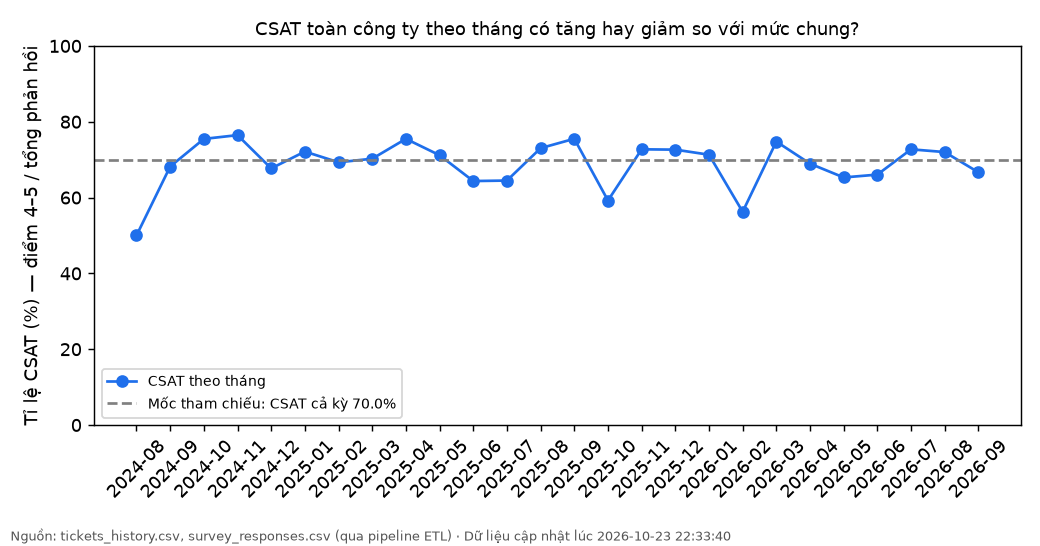
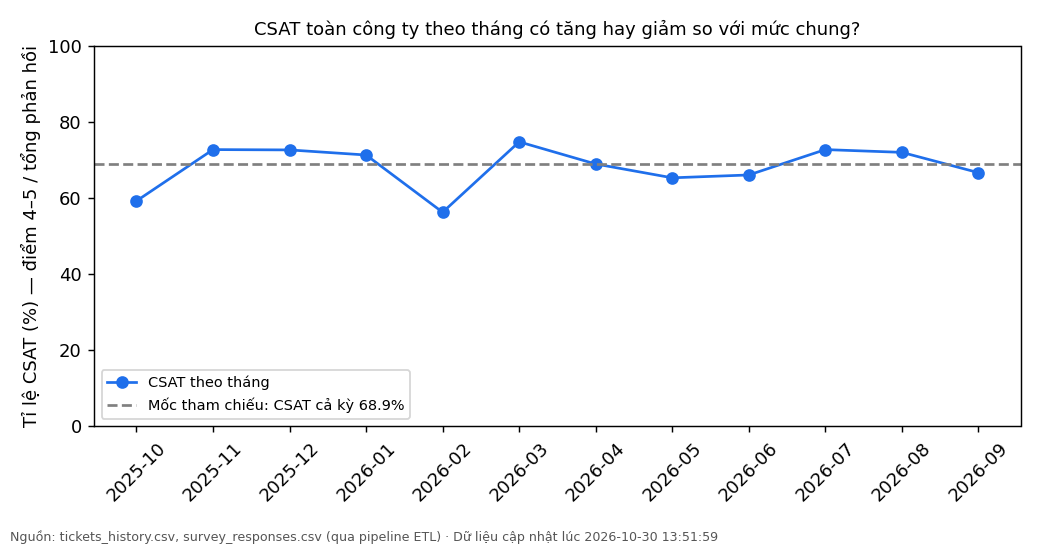
Hoan thien BT2

diff --git a/docs/ai-disclosure.md b/docs/ai-disclosure.md
@@ -1,36 +1,24 @@
-# Phụ lục – Bảng khai báo sử dụng công cụ AI (BT2)
+# Phụ lục – Bảng khai báo sử dụng công cụ AI
 
-**Học phần:** Chuyên đề tốt nghiệp 1 – Bài tập 2: Hiện thực hoá Module Cốt lõi
+**Học phần:** Chuyên đề tốt nghiệp 1 – Bài tập 1: Phân tích và Thiết kế
 **Luồng nghiệp vụ:** L8 – Khảo sát hài lòng khách hàng sau bảo hành (CSAT) · **Track:** DA
 **Sinh viên:** MOONLASING Moulita · **MSSV:** 237480201IS02
-**Repo / tag:** https://github.com/Moulitamls/smartcrm-237480201IS02-khao-sat-hai-long · `v0.2`
 
-## 1. Bảng khai báo (BT2)
-
-| Công cụ | Dùng vào việc gì | Áp dụng ở tệp / hàm nào | Em đã kiểm chứng thế nào |
-|---|---|---|---|
-| Claude (Anthropic) | Rà soát repo đối chiếu đề BT2 và bảng tiêu chí C1–C7, D1–D4; chỉ liệt kê điểm thiếu, không sửa mã ở bước này | Toàn repo (không sinh mã ở bước này) | Em tự kiểm tra từng điểm Claude nêu: `git tag -l` rỗng; `src/config.demo.yaml` và `docs/data-dictionary.md` không có trong repo; `docs/ai-disclosure.md` còn là bản BT1; chạy `python -m pytest -q src` và chạy pipeline hai lần để xác nhận số dòng không nhân đôi |
-| Claude (Anthropic) | Soạn 8 hàm kiểm chất lượng CL1–CL8, mỗi hàm trả số dòng lỗi, tổng dòng, tỉ lệ lỗi và kết quả so với ngưỡng; soạn hàm `run_all` gọi cả 8 hàm | `src/quality/metrics.py`: `cl1_ticket_id_hop_le` … `cl8_moi_phieu_mot_phan_hoi`, `run_all` | Em đã đọc từng hàm và giải thích được từng điều kiện; tự tính tay một ca (4 phiếu, 1 mã trùng → CL1 = 1/4 = 25%) rồi so với kết quả chạy; chạy pipeline trên dữ liệu thật được CL1–CL8 đều 0 lỗi; chạy với `config.demo.yaml` được số lỗi khớp số dòng chèn lỗi trong `make_sample_data.py` |
-| Claude (Anthropic) | Soạn 5 test cho các hàm CL: dữ liệu sạch (0 lỗi), biên điểm 1/5 hợp lệ và 0/6 lỗi (CL4 = 2/4), biên nhận xét 500/501 ký tự, dữ liệu sai nhiều loại, bảng rỗng không chia cho 0 | `src/test_metrics.py` | Em chạy `python -m pytest -q src`, kết quả `23 passed` (18 test cũ + 5 test mới); em sửa lại một kỳ vọng sai ở `test_du_lieu_sai_nhieu_loai_moi_phep_dem_dung` (CL3 đếm cả phiếu thiếu `closed_at` lẫn phiếu có `closed_at` không đọc được, nên đúng là 2 chứ không phải 1) |
-| Claude (Anthropic) | Nối CL1–CL8 vào luồng chạy và báo cáo; thêm ngưỡng `max_error_rate` vào cấu hình | `src/pipeline.py` (import `metrics`, gọi `qm.run_all`, in 8 dòng `[quality]`); `src/report.py` (mục 3 của báo cáo chất lượng); `src/config.yaml` (`rules.max_error_rate`) | Em chạy pipeline hai lần: `fact_survey` giữ 6350 dòng, `[reconcile]` vẫn `ĐẠT`; mở `reports/chatluong-<ngày>.md` thấy bảng CL1–CL8 có cột tỉ lệ lỗi; `check_tickets` / `check_surveys` và bảng `reject_rows` không bị sửa |
-| Claude (Anthropic) | Soạn tệp cấu hình cho dữ liệu mẫu có lỗi chủ ý và từ điển cột | `src/config.demo.yaml`; `docs/data-dictionary.md` | Chạy `python -m src.make_sample_data` rồi `python -m src.pipeline --config src/config.demo.yaml`: `reject_rows` có 8 loại lý do, chạy lần hai `fact_survey` vẫn 6343 dòng; đối chiếu từng cột của từ điển với `src/star_schema.sql` và `src/load/sqlite_loader.py` |
-| Claude (Anthropic) | Cập nhật tài liệu theo thay đổi ở trên; thêm gói con Python | `README.md` (số test, bảng cấu trúc, kết quả đúng); `docs/thay-doi-thiet-ke.md` (TD-22); `.gitignore` (`reports/`); `src/__init__.py` và `__init__.py` của 4 gói con | Em đọc lại từng dòng đã sửa; làm đúng README trong thư mục trống (`git clone --branch v0.2`) và không phải gõ thêm lệnh nào |
-| Claude (Anthropic) | Tra mã commit sửa từng lỗi để điền vào bug log (dùng `git log -S`) | `docs/bug-log.md`, dòng "Commit" của BUG-01 đến BUG-06 | Em chạy `git show <mã>` cho từng commit để xác nhận commit đó thật sự chứa thay đổi sửa lỗi tương ứng |
-
-## 2. Các phần em tự làm hoàn toàn
-
-*[SV xác nhận trước khi nộp: các phần không nằm trong bảng ở mục 1 do em tự làm, gồm `src/extract/`, `src/transform/`, `src/quality/rules.py`, `src/quality/rejects.py`, `src/load/`, `src/queries.py`, `src/charts.py`, `src/app.py`, `src/export_charts.py`, 18 test đã có trước đó, sơ đồ và ảnh minh chứng. Nếu có phần nào em từng dùng AI hỗ trợ (kể cả gợi ý hàm, giải thích lỗi, soát văn phong), phải thêm vào bảng ở mục 1; nếu không dùng thì giữ nguyên câu này và xoá ngoặc vuông.]*
-
-## 3. Bảng khai báo của BT1 (giữ lại để truy vết)
+## 1. Bảng khai báo
 
 | Công cụ | Dùng vào việc gì | Áp dụng ở phần nào | Đã kiểm chứng thế nào |
 |---|---|---|---|
-| Claude (Anthropic) | Rà soát bản DOCX BT1 so với đề bài, liệt kê điểm còn thiếu so với 11 mục kiểm chứng | Báo cáo BT1 (DOCX) | Đối chiếu từng điểm Claude nêu với file đề bài PDF, tự sửa nội dung trong tài liệu, chạy lại Ctrl+F kiểm tra thuật ngữ |
+| Claude (Anthropic) | Rà soát bản DOCX đã làm so với đề bài: liệt kê điểm còn thiếu hoặc sai so với 11 mục kiểm chứng; đối chiếu từng điểm Claude nêu với file đề bài PDF và tự sửa nội dung trong tài liệu; chạy lại Ctrl+F kiểm tra thuật ngữ |
 
-## 4. Cam kết
 
-**Tôi xác nhận đã đọc, hiểu và chịu trách nhiệm về toàn bộ nội dung này.**
+## 2. Các phần em tự làm hoàn toàn
+
+*Mục 1 phân tích yêu cầu nghiệp vụ và User Story; Use Case Diagram và đặc tả UC2; sơ đồ kiến trúc và 3 câu lập luận; sơ đồ data flow và lược đồ kho dữ liệu; wireframe trên Figma; đo số liệu trên dữ liệu mẫu.*
+
+## 3. Cam kết
+
+Tôi xác nhận đã đọc, hiểu và chịu trách nhiệm về toàn bộ nội dung nộp.
 
 - Họ tên: **MOONLASING Moulita**
 - MSSV: **237480201IS02**
-- Ngày: *[30/10/2026]*
+- Ngày: *09/10/2026**

diff --git a/docs/bug-log.md b/docs/bug-log.md
@@ -10,7 +10,7 @@ Mỗi lỗi theo bốn bước gỡ lỗi: tái lập → khoanh vùng → sửa
 - Nguyên nhân gốc: mã viết cho cấu trúc cũ có thư mục `tests/`; cấu trúc phẳng (TD-16) không còn thư mục đó.
 - Cách sửa: đổi thành `from src.conftest import T, S, run_pipeline`.
 - Xác nhận: `python -m pytest -q src` hiện `17 passed`.
-- Commit: `<d419337, 540311a, 595f65c, 578fce8>`
+- Commit: `<điền mã commit>`
 
 ## BUG-02 — Dashboard không tìm thấy config sau khi gom file vào src/
 
@@ -20,7 +20,7 @@ Mỗi lỗi theo bốn bước gỡ lỗi: tái lập → khoanh vùng → sửa
 - Nguyên nhân gốc: mã viết cho `src/dashboard/app.py` (sâu hơn một cấp).
 - Cách sửa: dùng `Path(__file__).resolve().parents[1]` cho cả `sys.path` và đường dẫn config.
 - Xác nhận: dashboard mở ở `localhost:8501` và hiện số liệu.
-- Commit: `<ea91f02>`
+- Commit: `<điền mã commit>`
 
 ## BUG-03 — Phản hồi cùng ngày đóng phiếu bị loại oan
 
@@ -30,7 +30,7 @@ Mỗi lỗi theo bốn bước gỡ lỗi: tái lập → khoanh vùng → sửa
 - Nguyên nhân gốc: quy tắc so sánh theo thời điểm đầy đủ.
 - Cách sửa: so sánh theo NGÀY bằng `dt.normalize()` trong `check_surveys` (TD-12).
 - Xác nhận: test "trả lời cùng ngày đóng hợp lệ" trong `test_quality.py` PASS.
-- Commit: `<1f6802f>`
+- Commit: `<điền mã commit>`
 
 ## BUG-04 — Số dòng fact ít hơn staging vì JOIN loại phiếu thiếu khoá
 
@@ -40,7 +40,7 @@ Mỗi lỗi theo bốn bước gỡ lỗi: tái lập → khoanh vùng → sửa
 - Nguyên nhân gốc: dimension không có dòng cho giá trị thiếu.
 - Cách sửa: thêm dòng "Không xác định" (key = −1) vào dimension và ánh xạ khoá thiếu về −1 (TD-11).
 - Xác nhận: công thức đối chiếu `stg_ticket = fact + loại + chưa đóng` in `ĐẠT`; test thiếu trung tâm hoặc kỹ thuật viên trong `test_loader.py` PASS.
-- Commit: `<c02ea47>`
+- Commit: `<điền mã commit>`
 
 ## BUG-05 — README trỏ sai đường dẫn và link repo
 
@@ -50,7 +50,7 @@ Mỗi lỗi theo bốn bước gỡ lỗi: tái lập → khoanh vùng → sửa
 - Nguyên nhân gốc: README viết trước khi gom file theo yêu cầu giảng viên (TD-16) và không được chạy lại trên bản clone mới.
 - Cách sửa: viết lại README theo cấu trúc phẳng, sửa link, thêm bước clone theo tag `v0.2` (TD-21).
 - Xác nhận: clone `--branch v0.2` vào thư mục mới, chạy đủ các bước README, pipeline `ĐẠT` và `18 passed`.
-- Commit: `<25e4a12>`
+- Commit: `<điền mã commit>`
 
 ## BUG-06 — Tạo lỗi trạng thái "lỗi" làm sinh ra file csat.db rỗng
 
@@ -60,4 +60,4 @@ Mỗi lỗi theo bốn bước gỡ lỗi: tái lập → khoanh vùng → sửa
 - Nguyên nhân gốc: hành vi mặc định của SQLite; đây là cách giả lập lỗi, không phải lỗi mã.
 - Cách sửa: trước khi đổi tên `csat.db.bak` về `csat.db`, xoá file `csat.db` rỗng. Đã ghi vào README.
 - Xác nhận: sau khi xoá file rỗng và đổi tên lại, dashboard hiện số liệu bình thường.
-- Commit: `<25e4a12>`
+- Commit: `<điền mã commit>`

diff --git a/reports/chatluong-demo-2026-10-30.md b/reports/chatluong-demo-2026-10-30.md
@@ -1,0 +1,39 @@
+# Báo cáo chất lượng dữ liệu — 2026-10-30 14:54:27
+
+## 1. Nguồn
+
+| Nguồn | Số dòng | Số cột |
+|---|---|---|
+| tickets_history | 7805 | 6 |
+| survey_responses | 2606 | 5 |
+
+## 2. Đối chiếu staging ↔ fact
+
+| Chỉ số | Giá trị |
+|---|---|
+| Dòng stg_ticket | 7805 |
+| − Phiếu bị loại (reject_rows) | 12 |
+| − Phiếu chưa đóng (không thuộc grain của fact) | 1450 |
+| = Dòng fact_survey | 6343 |
+| Khớp công thức | ĐẠT |
+| Dòng stg_survey_response | 2606 |
+| − Phản hồi bị loại | 18 |
+| = Phản hồi nằm trong fact (has_response=1) | 2588 |
+| Khớp công thức | ĐẠT |
+
+## 3. Dòng bị loại theo lý do
+
+| Bảng | Lý do | Số dòng |
+|---|---|---|
+| stg_survey_response | nhan_xet_qua_dai | 3 |
+| stg_survey_response | phieu_chua_dong | 3 |
+| stg_survey_response | score_ngoai_1_5 | 3 |
+| stg_survey_response | tra_loi_truoc_ngay_dong | 4 |
+| stg_survey_response | trung_phan_hoi | 5 |
+| stg_ticket | da_dong_thieu_closed_at | 3 |
+| stg_ticket | ngay_dong_khong_doc_duoc | 4 |
+| stg_ticket | ticket_id_trung | 5 |
+
+## 4. Lô nạp fact theo ngày
+
+Số lô: 353; tổng dòng ghi: 6343.

diff --git a/reports/chatluong-2026-10-30.md b/reports/chatluong-2026-10-30.md
@@ -1,0 +1,32 @@
+# Báo cáo chất lượng dữ liệu — 2026-10-30 13:51:59
+
+## 1. Nguồn
+
+| Nguồn | Số dòng | Số cột |
+|---|---|---|
+| tickets_history | 7800 | 15 |
+| survey_responses | 2600 | 5 |
+
+## 2. Đối chiếu staging ↔ fact
+
+| Chỉ số | Giá trị |
+|---|---|
+| Dòng stg_ticket | 7800 |
+| − Phiếu bị loại (reject_rows) | 0 |
+| − Phiếu chưa đóng (không thuộc grain của fact) | 1450 |
+| = Dòng fact_survey | 6350 |
+| Khớp công thức | ĐẠT |
+| Dòng stg_survey_response | 2600 |
+| − Phản hồi bị loại | 0 |
+| = Phản hồi nằm trong fact (has_response=1) | 2600 |
+| Khớp công thức | ĐẠT |
+
+## 3. Dòng bị loại theo lý do
+
+| Bảng | Lý do | Số dòng |
+|---|---|---|
+| — | không có dòng bị loại | 0 |
+
+## 4. Lô nạp fact theo ngày
+
+Số lô: 734; tổng dòng ghi: 6350.

diff --git a/README.md b/README.md
@@ -1,7 +1,6 @@
 # Smart CRM Mekong Mobile – Khảo sát hài lòng CSAT (L8, Track DA)
 
-Sinh viên: MOONLASING Moulita · MSSV 237480201IS02 · GVHD: ThS. Nguyễn Minh Tân - Bài tập 2 - tag 'v0.2'
-
+Sinh viên: MOONLASING Moulita · MSSV 237480201IS02 · GVHD: ThS. Nguyễn Minh Tân
 Repo: https://github.com/Moulitamls/smartcrm-237480201IS02-khao-sat-hai-long 
 
 ## 1. Giới thiệu
